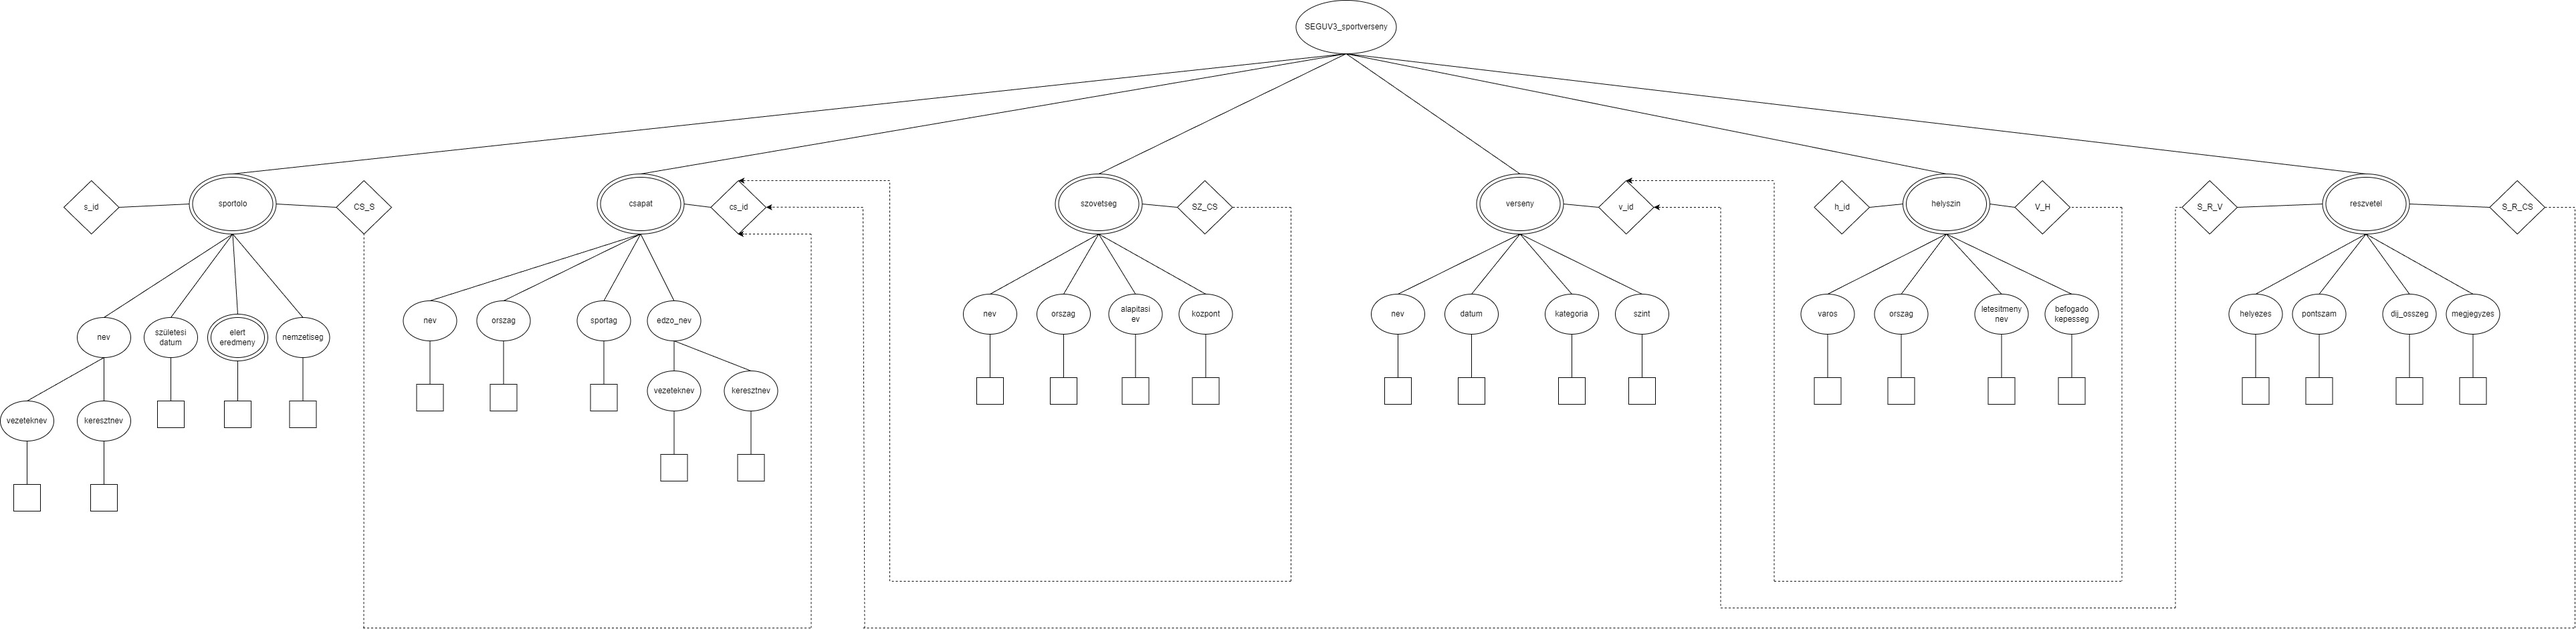
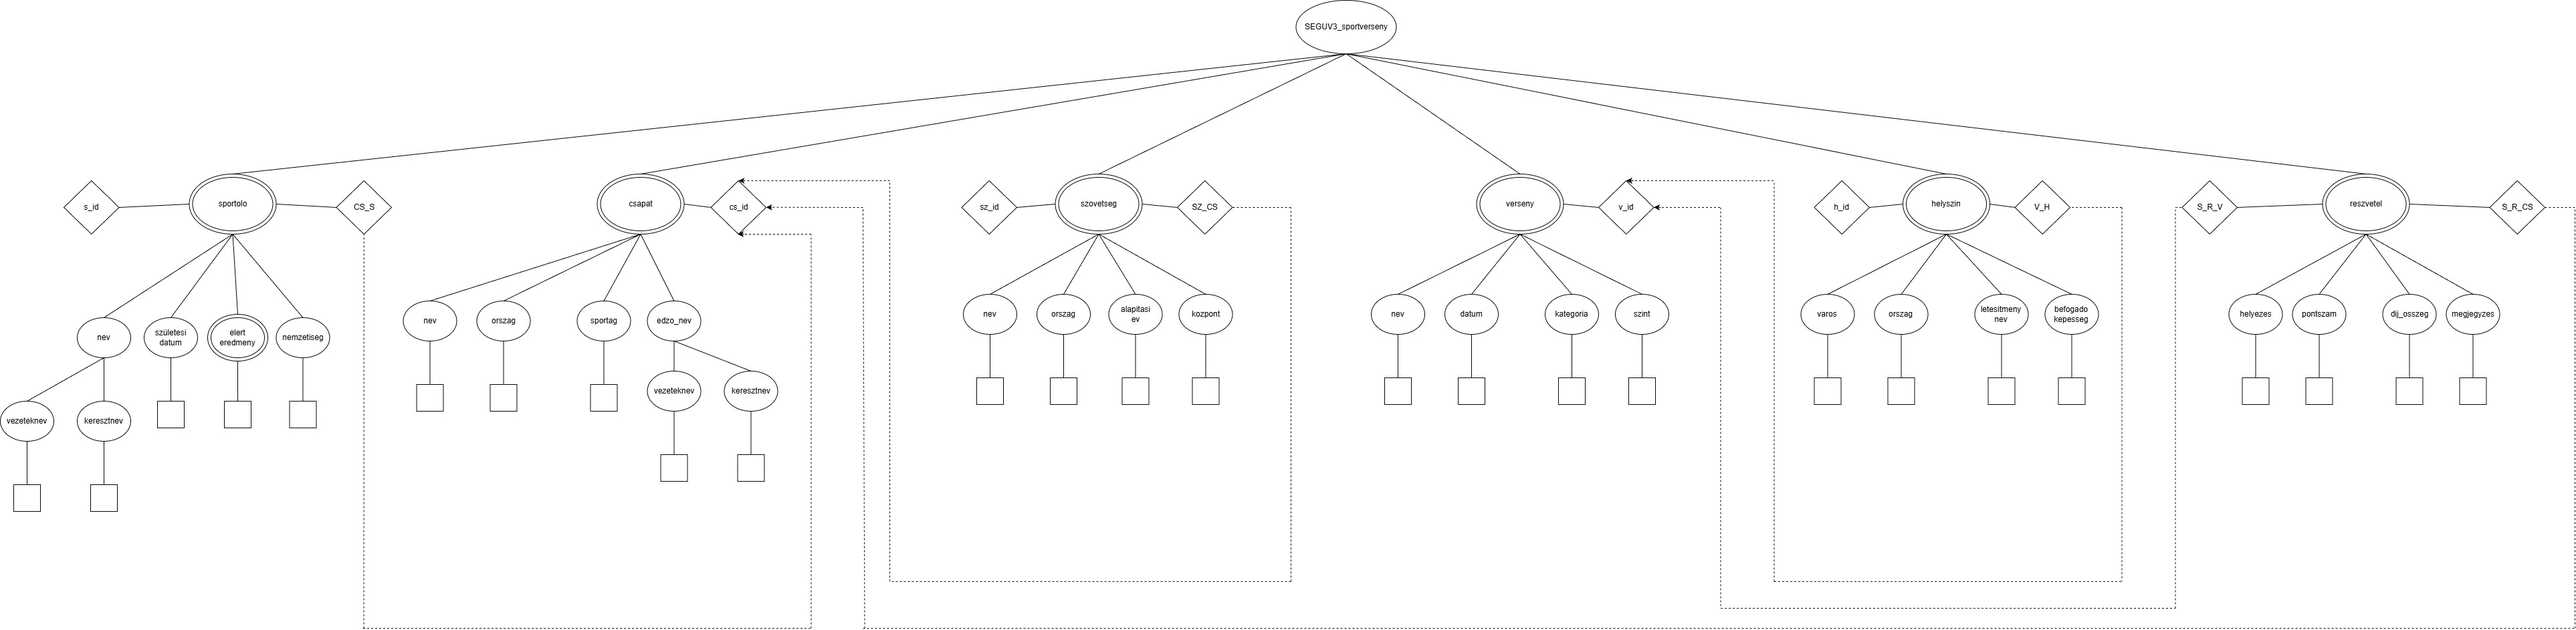
Add files via upload

diff --git a/SEGUV3_XMLTask/SEGUV3DOMParse/src/seguv3/domparse/hu/SEGUV3DOMRead.java b/SEGUV3_XMLTask/SEGUV3DOMParse/src/seguv3/domparse/hu/SEGUV3DOMRead.java
@@ -149,9 +149,9 @@ public class SEGUV3DOMRead {
         transformer.setOutputProperty(OutputKeys.INDENT, "yes");
         DOMSource source = new DOMSource(doc);
 
-        StreamResult result = new StreamResult(new File("SEGUV3_XML_MENTES.xml"));
+        StreamResult result = new StreamResult(new File("SEGUV3_XML_output.xml"));
         transformer.transform(source, result);
 
-        System.out.println("\nXML dokumentum sikeresen mentve: SEGUV3_XML_MENTES.xml");
+        System.out.println("\nXML dokumentum sikeresen mentve: SEGUV3_XML_output.xml");
     }
 }

diff --git a/SEGUV3_XMLTask/SEGUV3DOMParse/src/seguv3/domparse/hu/SEGUV3DOMModify.java b/SEGUV3_XMLTask/SEGUV3DOMParse/src/seguv3/domparse/hu/SEGUV3DOMModify.java
@@ -85,6 +85,7 @@ public class SEGUV3DOMModify {
             TransformerFactory transformerFactory = TransformerFactory.newInstance();
             Transformer transformer = transformerFactory.newTransformer();
             transformer.setOutputProperty(OutputKeys.INDENT, "yes");
+            transformer.setOutputProperty(OutputKeys.ENCODING, "UTF-8");
             transformer.setOutputProperty("{http://xml.apache.org/xslt}indent-amount", "4");
 
             transformer.transform(new DOMSource(doc), new StreamResult(System.out));
